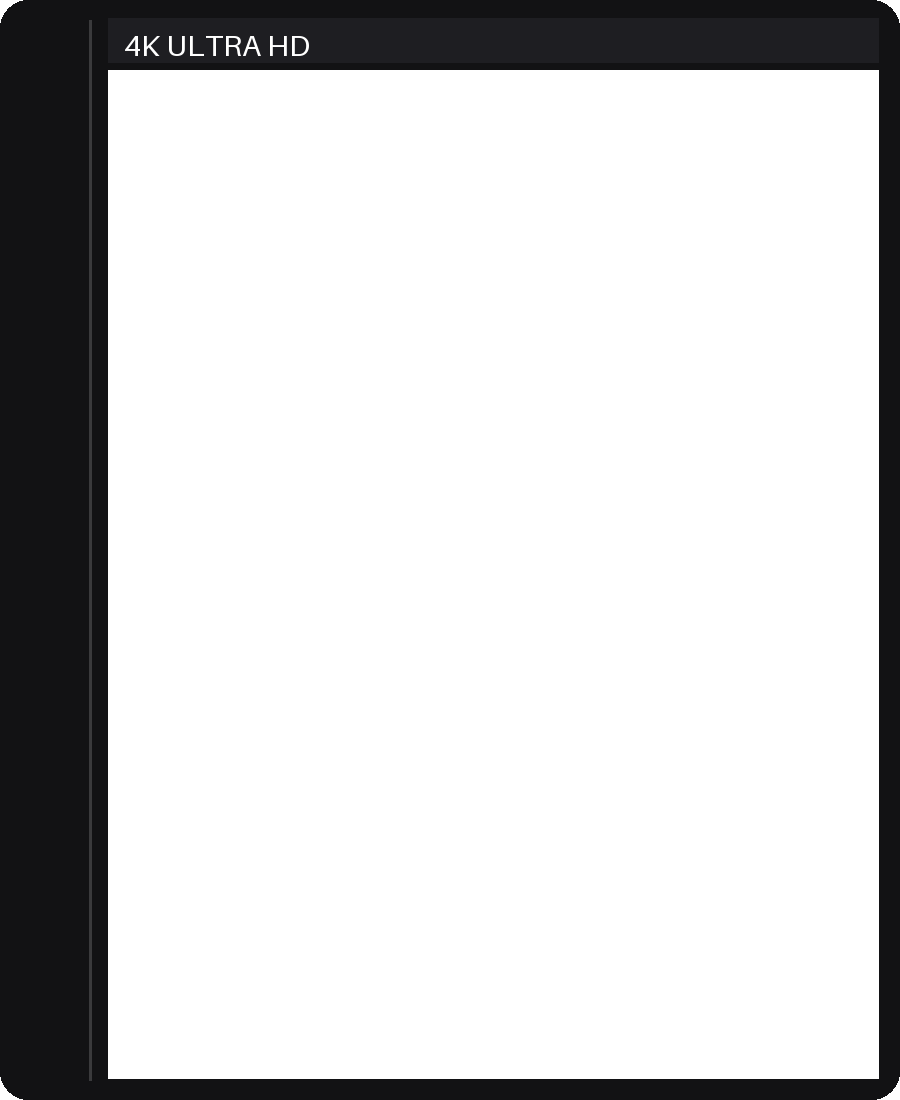
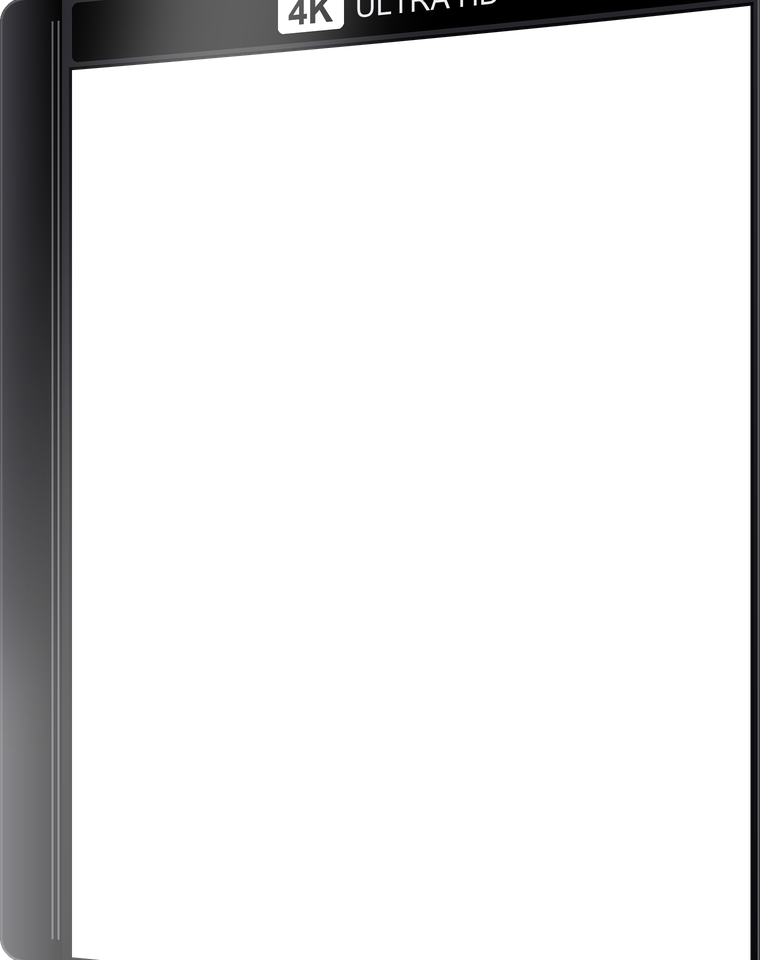
Estuches dibujados en ángulo, con brillo y franja de formato

Changed region(s): [[0.0, 0.0, 1.0, 1.0]]

diff --git a/tools/cases/make_cases.py b/tools/cases/make_cases.py
@@ -1,34 +1,114 @@
-"""Draws plain Blu-ray (blue) and 4K UHD (black) case templates into static/cases.
+"""Draws the Blu-ray (blue) and 4K UHD (black) case templates into static/cases.
 
-The service puts each cover into the transparent window of these PNGs (see biblio/images.py:
-the window is found by flooding the transparent area from the centre; the spine is the strip
-to its left). Replace them with your own case photos if you like: same idea, a PNG whose
-cover window is transparent.
+Each is a case seen slightly from the side (the right edge a little shorter than the left, as in
+a photo), with a spine on the left, a header band, a glossy plastic sheen, and a transparent cover
+window. The service puts each cover into that window (biblio/images.py finds it by flooding the
+transparent area from the centre and follows its perspective). Replace them with your own case
+photos if you like: any PNG whose cover window is transparent works.
 
     python tools/cases/make_cases.py
 """
 from pathlib import Path
 
-from PIL import Image, ImageDraw
+from PIL import Image, ImageDraw, ImageFilter, ImageFont
 
 OUT = Path(__file__).resolve().parents[2] / "static" / "cases"
-W, H = 900, 1100
-SPINE = 90
+S = 2                                   # drawn at 2x, then scaled down: smooth edges
+W, H = 760 * S, 960 * S
+SPINE = 62 * S                          # left strip: the case's hinge
+BAND = 58 * S                           # header band above the window
+M = 10 * S                              # plastic margin around the window
+SKEW = 0.075                            # right edge this much shorter (top and bottom): seen from the side
 
 
-def case(body, band, label):
+def _font(size, bold=True):
+    for name in (("arialbd.ttf", "DejaVuSans-Bold.ttf") if bold else ("arial.ttf", "DejaVuSans.ttf")):
+        try:
+            return ImageFont.truetype(name, size)
+        except OSError:
+            pass
+    return ImageFont.load_default(size=size)
+
+
+def _vgrad(w, h, top, bottom):
+    g = Image.new("RGBA", (1, h))
+    for y in range(h):
+        t = y / max(1, h - 1)
+        g.putpixel((0, y), tuple(round(a + (b - a) * t) for a, b in zip(top, bottom)))
+    return g.resize((w, h))
+
+
+def _hgrad(w, h, left, right):
+    return _vgrad(h, w, left, right).rotate(90, expand=True).transpose(Image.FLIP_LEFT_RIGHT)
+
+
+def case(body_top, body_bottom, edge, band_rgb, logo):
     img = Image.new("RGBA", (W, H), (0, 0, 0, 0))
+    mask = Image.new("L", (W, H), 0)
+    ImageDraw.Draw(mask).rounded_rectangle((0, 0, W - 1, H - 1), radius=22 * S, fill=255)
+    body = _vgrad(W, H, body_top, body_bottom)
+    img.paste(body, (0, 0), mask)
     d = ImageDraw.Draw(img)
-    d.rounded_rectangle((0, 0, W - 1, H - 1), radius=28, fill=body)
-    d.rectangle((SPINE + 18, 70, W - 22, H - 22), fill=(0, 0, 0, 0))   # cover window
-    d.rectangle((SPINE + 18, 18, W - 22, 62), fill=band)                # top band
-    d.text((SPINE + 34, 26), label, fill=(255, 255, 255, 255), font_size=30)
-    d.line((SPINE, 20, SPINE, H - 20), fill=tuple(min(255, c + 40) for c in body[:3]) + (255,), width=3)
-    return img
+
+    # spine: darker, with the hinge ridges
+    spine = _hgrad(SPINE, H, tuple(max(0, c - 30) for c in body_bottom[:3]) + (255,), tuple(min(255, c + 25) for c in body_top[:3]) + (255,))
+    smask = Image.new("L", (SPINE, H), 0)
+    ImageDraw.Draw(smask).rounded_rectangle((0, 0, SPINE + 40 * S, H - 1), radius=22 * S, fill=255)
+    img.paste(spine, (0, 0), smask)
+    for x in (SPINE - 10 * S, SPINE - 4 * S):
+        d.line((x, 26 * S, x, H - 26 * S), fill=edge, width=2 * S)
+
+    # header band with the format logo
+    x0, x1 = SPINE + M, W - M
+    d.rounded_rectangle((x0, M, x1, M + BAND), radius=6 * S, fill=band_rgb)
+    logo(d, x0, M, x1 - x0, BAND)
+
+    # cover window (transparent) with a thin dark sleeve edge
+    wy0 = M + BAND + 8 * S
+    d.rectangle((x0 - 3 * S, wy0 - 3 * S, x1 + 3 * S, H - M + 3 * S), fill=(8, 8, 10, 255))
+    d.rectangle((x0, wy0, x1, H - M), fill=(0, 0, 0, 0))
+
+    # outer edge highlight
+    d.rounded_rectangle((1, 1, W - 2, H - 2), radius=22 * S, outline=edge, width=2 * S)
+
+    # glossy sheen across the whole front (faint over the window: the cover shows through)
+    sheen = Image.new("L", (W, H), 0)
+    ImageDraw.Draw(sheen).polygon([(W * 0.18, 0), (W * 0.46, 0), (W * 0.20, H), (-W * 0.08, H)], fill=95)
+    sheen = sheen.filter(ImageFilter.GaussianBlur(40 * S))
+    shine = Image.new("RGBA", (W, H), (255, 255, 255, 0))
+    shine.putalpha(Image.composite(sheen, Image.new("L", (W, H), 0), mask))
+    a = img.getchannel("A")
+    img = Image.alpha_composite(img, shine)
+    # keep the window clearly transparent (the service floods alpha < 128 to find it)
+    win = Image.new("L", (W, H), 0)
+    ImageDraw.Draw(win).rectangle((x0, wy0, x1, H - M), fill=255)
+    img.putalpha(Image.composite(Image.eval(img.getchannel("A"), lambda v: min(v, 40)), a, win))
+
+    # seen slightly from the side: the right edge shorter, top and bottom
+    k = SKEW * H
+    quad = (0, 0, 0, H, W, H - k, W, k)                 # source corners for the output's TL, BL, BR, TR
+    persp = img.transform((W, H), Image.QUAD, quad, Image.BICUBIC)
+    return persp.resize((W // S, H // S), Image.LANCZOS)
+
+
+def logo_uhd(d, x, y, w, h):
+    f4k, fuhd = _font(int(h * 0.62)), _font(int(h * 0.50), bold=False)
+    tx = x + w // 2 - int(h * 2.3)
+    bw = d.textlength("4K", font=f4k) + h * 0.35
+    d.rounded_rectangle((tx, y + h * 0.16, tx + bw, y + h * 0.84), radius=int(h * 0.1), fill=(255, 255, 255, 255))
+    d.text((tx + h * 0.17, y + h * 0.50), "4K", font=f4k, fill=(15, 15, 18, 255), anchor="lm")
+    d.text((tx + bw + h * 0.2, y + h * 0.52), "ULTRA HD", font=fuhd, fill=(235, 235, 240, 255), anchor="lm")
+
+
+def logo_bluray(d, x, y, w, h):
+    f = _font(int(h * 0.56))
+    d.text((x + w // 2, y + h * 0.52), "Blu-ray Disc", font=f, fill=(255, 255, 255, 255), anchor="mm")
 
 
 if __name__ == "__main__":
     OUT.mkdir(parents=True, exist_ok=True)
-    case((22, 78, 168, 255), (12, 52, 128, 255), "Blu-ray").save(OUT / "bluray.png", optimize=True)
-    case((18, 18, 20, 255), (30, 30, 34, 255), "4K ULTRA HD").save(OUT / "uhd.png", optimize=True)
+    case((44, 112, 210, 255), (16, 62, 150, 255), (120, 170, 235, 255), (10, 46, 120, 255), logo_bluray) \
+        .save(OUT / "bluray.png", optimize=True)
+    case((40, 40, 46, 255), (10, 10, 12, 255), (90, 90, 98, 255), (0, 0, 0, 255), logo_uhd) \
+        .save(OUT / "uhd.png", optimize=True)
     print("ok", OUT)
